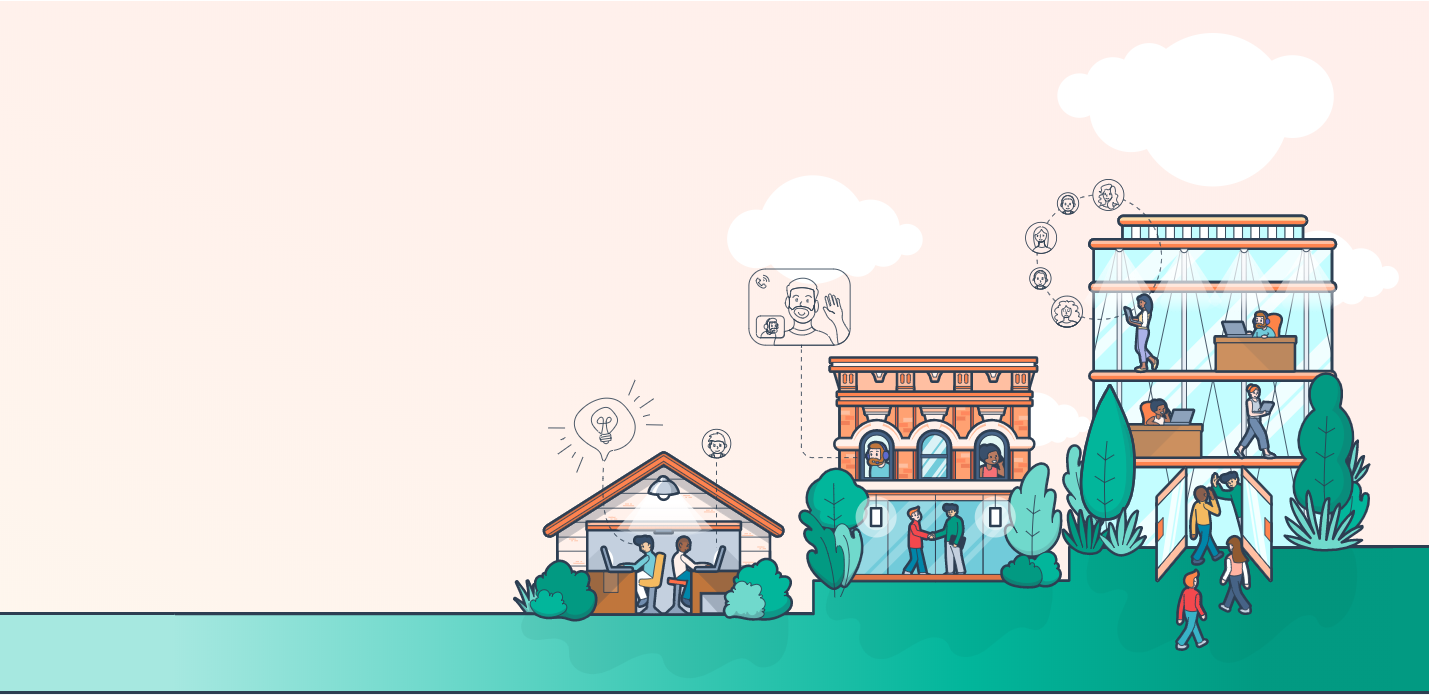
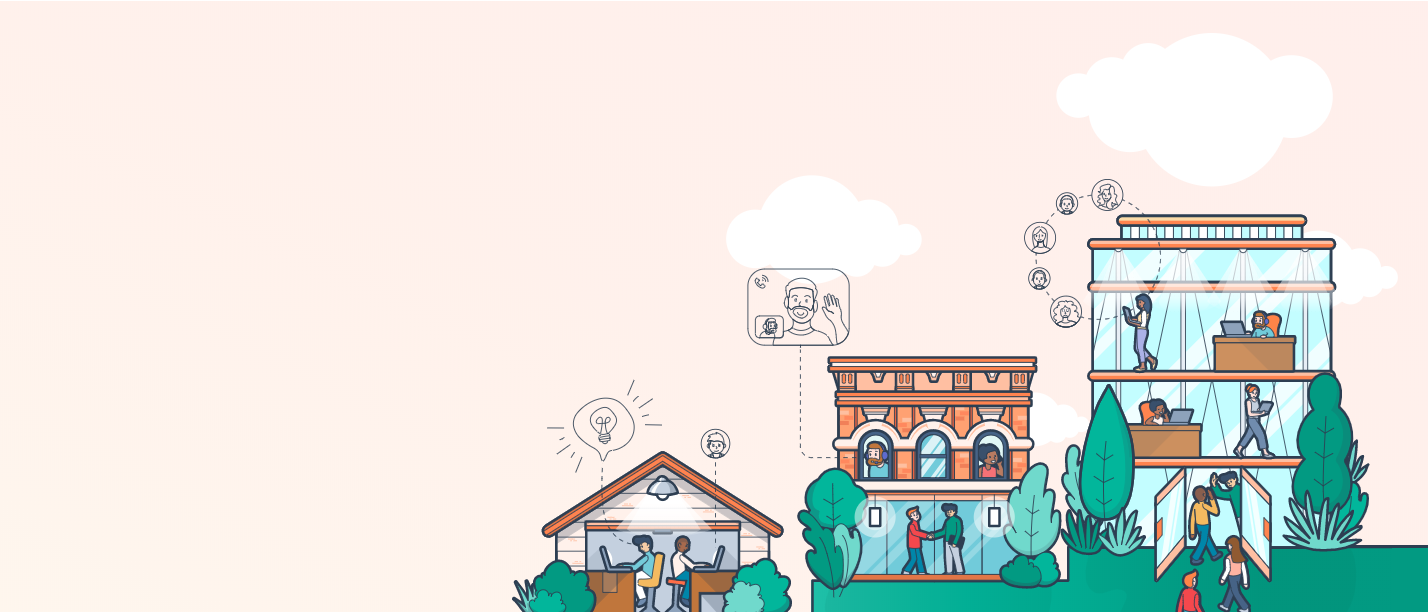
header corretto

Changed region(s): [[0.0, 0.2484, 1.0, 1.0]]

diff --git a/css/style.css b/css/style.css
@@ -5,6 +5,9 @@
 }
 
 /* menu1 */
+header{
+  width: 100%;
+}
 .header-top-container{
   height: 70px;
   line-height: 70px;
@@ -14,12 +17,12 @@
 
 .header-top-nav-left{
   float: left;
-  width: 40%;
+  width: 50%;
 }
 
 .header-top-nav-right{
   float: left;
-  width: 40%;
+  width: 43.5%;
   text-align: right;
 }
 
@@ -56,8 +59,8 @@
 
 .header-top-logo{
   float: left;
-  width: 35%;
-  vertical-align: bottom;
+  width: 45%;
+  line-height: 90px;
 }
 
 .down li{
@@ -67,9 +70,9 @@
 
   .header-bottom-bottom{
     float: left;
-    width: 46%;
-    display: grid;
+    width: 49%;
     text-align: right;
+    line-height: 60px;
   }
 
   .fa-angle-dow{
@@ -125,7 +128,7 @@
 }
 /* immagini */
 .container{
-  height: 800px;
+  height: 650px;
   position: relative;
   }
 
@@ -136,10 +139,10 @@
 }
 
 .color{
-  width: 100%;
+  width: 50%;
   height: 80%;
   position: absolute;
-  left: 14%;
+  left: 18.7%;
   top: 14%;
 }
 
@@ -149,4 +152,22 @@ h1{
 
 span{
   font-size: 12px;
+}
+
+.rettangolo{
+  height: 80px;
+  background-color: green;
+  border-bottom: 3px solid black;
+  border-top: 3px solid black;
+  background-color: #42FFC7;
+}
+
+/* main */
+main{
+  width: 100%;
+  background-color: #F4F9FD;
+}
+
+.container2{
+  height: 1200px;
 }

diff --git a/index.html b/index.html
@@ -58,14 +58,16 @@
         <br>
         <p><span>Get started with FREE tools, and upgrade as you grow</span></p>
       </div>
+     </div>
+    <div class="rettangolo"></div>
 
-      </div>
-    </div>
    </header>
 
 
    <main>
+     <div class="container2">
 
+     </div>
    </main>
 
 
